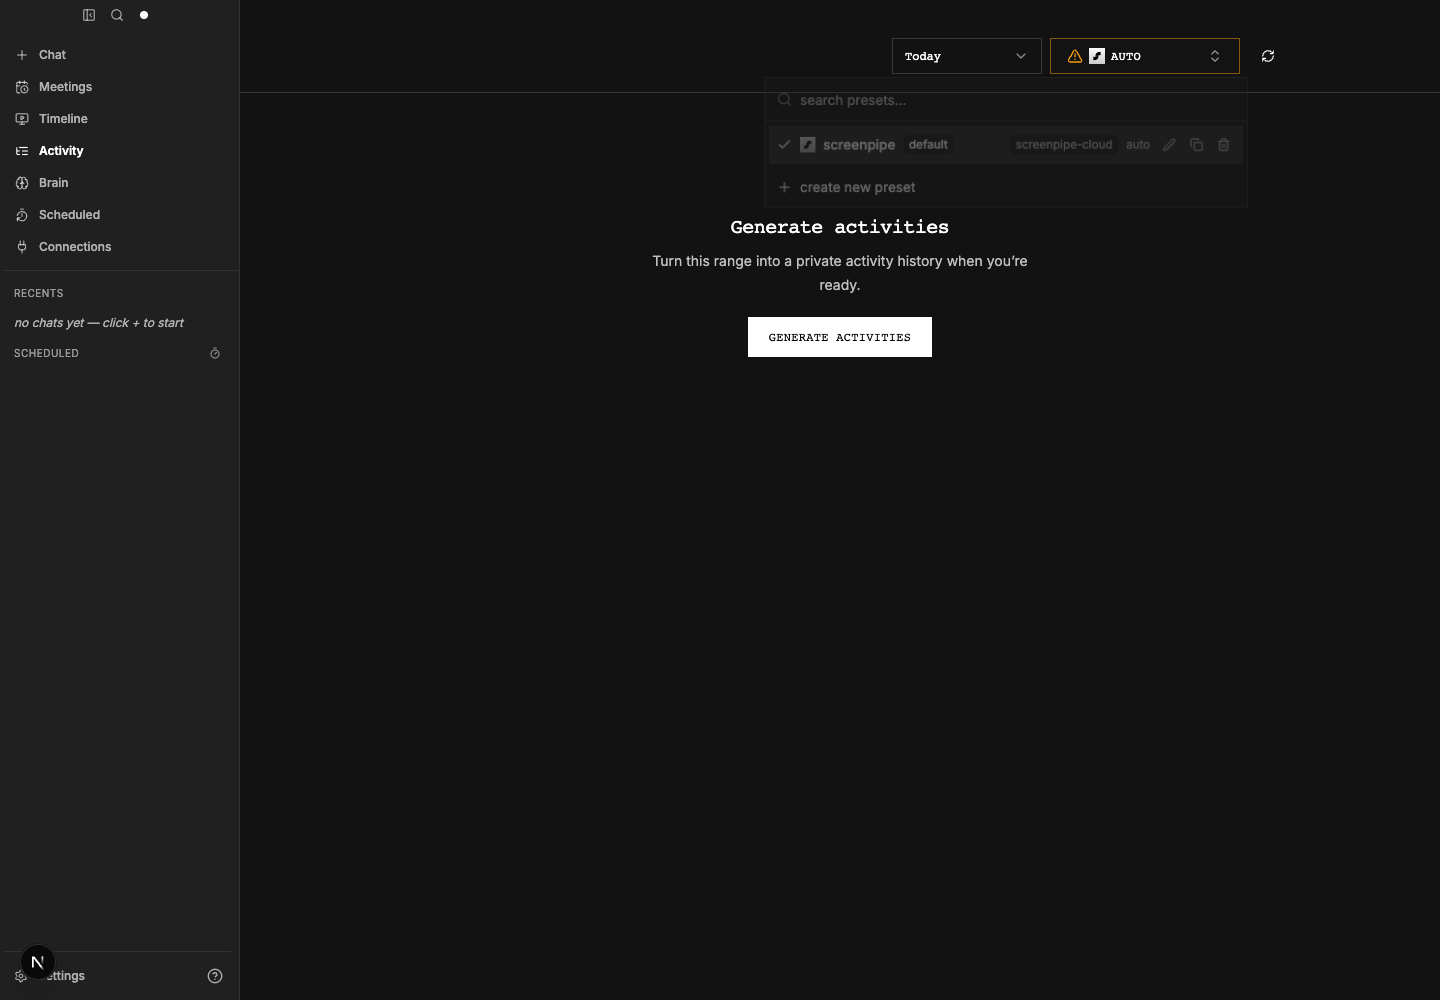
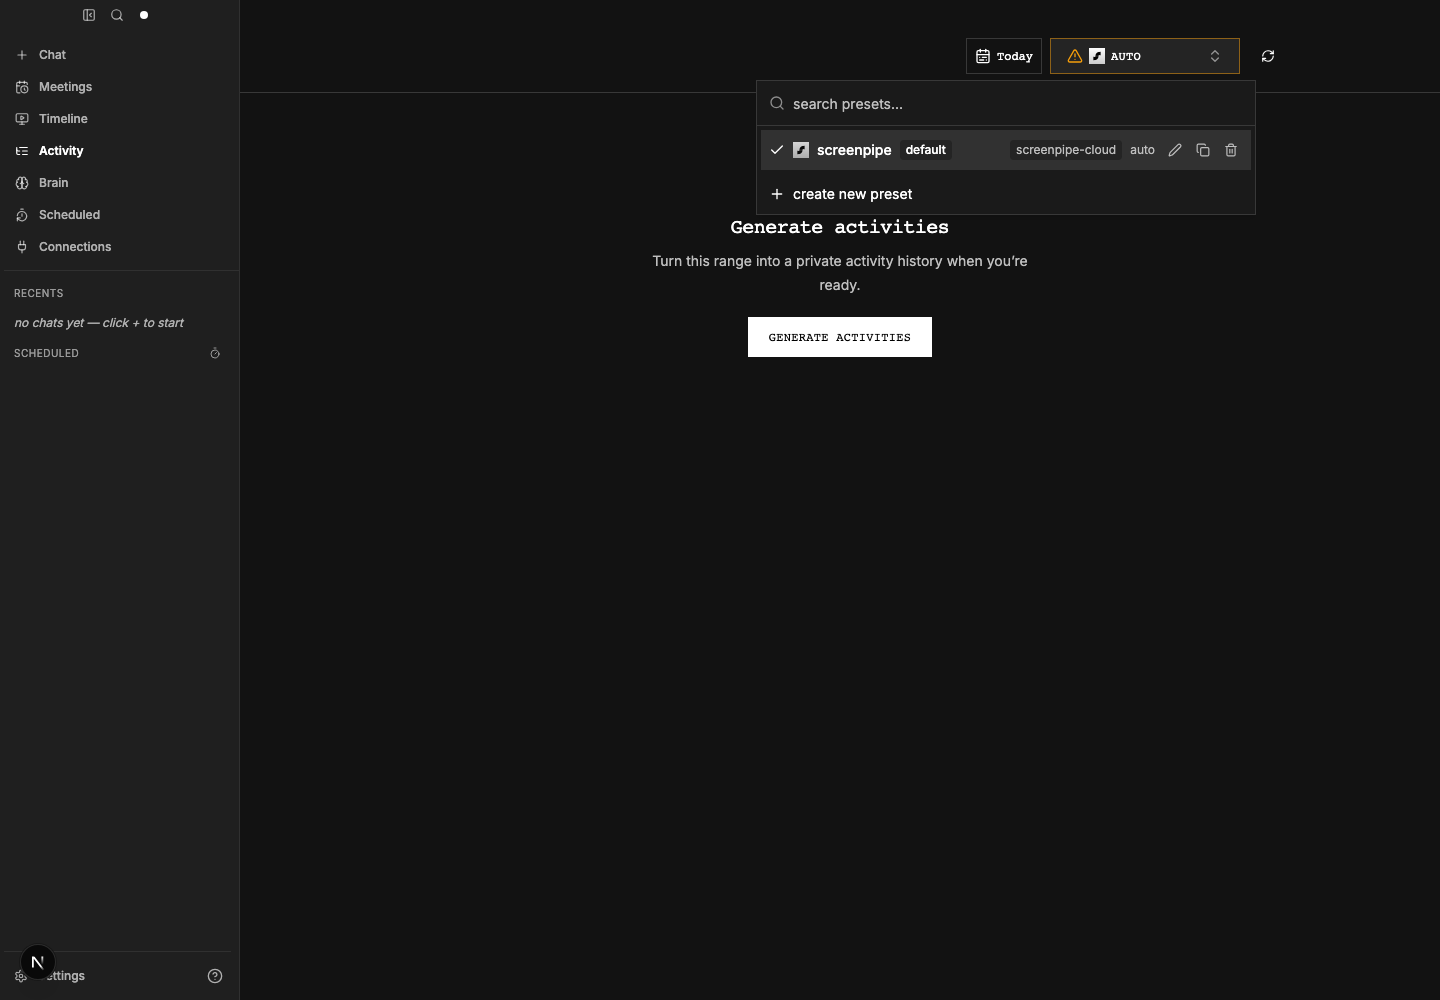
ui(activity): compact the time range control

Changed region(s): [[0.5312, 0.093, 0.875, 0.217], [0.625, 0.031, 0.7188, 0.062]]

diff --git a/apps/screenpipe-app-tauri/components/activity-ledger.test.tsx b/apps/screenpipe-app-tauri/components/activity-ledger.test.tsx
@@ -685,7 +685,11 @@ describe("ActivityLedger", () => {
 
     await screen.findByRole("button", { name: "Generate activities" });
     expect(screen.queryByRole("heading", { name: "Activity" })).toBeNull();
-    expect(screen.getByLabelText("Time range")).toBeVisible();
+    const timeRange = screen.getByRole("combobox", {
+      name: "Time range: Today",
+    });
+    expect(timeRange).toBeVisible();
+    expect(timeRange).toHaveTextContent("Today");
     expect(screen.getByLabelText("AI preset")).toBeVisible();
   });
 
@@ -693,7 +697,9 @@ describe("ActivityLedger", () => {
     render(<ActivityLedger />);
 
     await screen.findByRole("button", { name: "Generate activities" });
-    fireEvent.click(screen.getByLabelText("Time range"));
+    fireEvent.click(
+      screen.getByRole("combobox", { name: "Time range: Today" }),
+    );
     fireEvent.click(
       await screen.findByRole("option", { name: "Custom range" }),
     );
@@ -710,7 +716,9 @@ describe("ActivityLedger", () => {
     render(<ActivityLedger />);
 
     await screen.findByRole("button", { name: "Generate activities" });
-    fireEvent.click(screen.getByLabelText("Time range"));
+    fireEvent.click(
+      screen.getByRole("combobox", { name: "Time range: Today" }),
+    );
     fireEvent.click(
       await screen.findByRole("option", { name: "Custom range" }),
     );
@@ -730,10 +738,14 @@ describe("ActivityLedger", () => {
       ).toHaveAttribute("aria-expanded", "false"),
     );
 
-    fireEvent.click(screen.getByLabelText("Time range"));
+    fireEvent.click(
+      screen.getByRole("combobox", { name: "Time range: Custom range" }),
+    );
     fireEvent.click(await screen.findByRole("option", { name: "Today" }));
 
-    expect(screen.getByLabelText("Time range")).toHaveTextContent("Today");
+    expect(
+      screen.getByRole("combobox", { name: "Time range: Today" }),
+    ).toBeVisible();
     expect(
       screen.queryByRole("button", { name: "Choose custom date range" }),
     ).toBeNull();
@@ -1245,7 +1257,9 @@ describe("ActivityLedger", () => {
     expect(
       screen.getByRole("button", { name: "Refresh history" }),
     ).toBeVisible();
-    expect(screen.getByLabelText("Time range")).toBeVisible();
+    expect(
+      screen.getByRole("combobox", { name: "Time range: Today" }),
+    ).toBeVisible();
   });
 
   it("opens app and transcript artifacts at their exact timeline moments", async () => {

diff --git a/apps/screenpipe-app-tauri/components/activity-ledger.tsx b/apps/screenpipe-app-tauri/components/activity-ledger.tsx
@@ -17,6 +17,7 @@ import {
   AppWindow,
   AudioLines,
   CalendarDays,
+  CalendarRange,
   RefreshCw,
   Users,
 } from "lucide-react";
@@ -38,7 +39,6 @@ import {
   SelectContent,
   SelectItem,
   SelectTrigger,
-  SelectValue,
 } from "@/components/ui/select";
 import {
   ACTIVITY_REVIEW_AGENT_SYSTEM_PROMPT,
@@ -148,6 +148,13 @@ const RANGE_COPY: Record<RangePreset, string> = {
   "24h": "Last 24 hours",
   "7d": "Last 7 days",
   custom: "Custom range",
+};
+
+const RANGE_SHORT_COPY: Record<RangePreset, string> = {
+  today: "Today",
+  "24h": "24h",
+  "7d": "7d",
+  custom: "Custom",
 };
 
 function readStoredRangePreset(): RangePreset {
@@ -1311,11 +1318,13 @@ Re-query Screenpipe only inside the cited time range and use the cited frames an
                 }}
               >
                 <SelectTrigger
-                  className="h-9 w-[150px] rounded-none text-xs"
+                  className="h-9 w-auto min-w-0 shrink-0 justify-center gap-1.5 rounded-none px-2 text-xs [&>svg:last-child]:hidden"
                   data-testid="activity-range"
-                  aria-label="Time range"
+                  aria-label={`Time range: ${RANGE_COPY[preset]}`}
+                  title={`Time range: ${RANGE_COPY[preset]}`}
                 >
-                  <SelectValue />
+                  <CalendarRange className="h-4 w-4" aria-hidden="true" />
+                  <span aria-hidden="true">{RANGE_SHORT_COPY[preset]}</span>
                 </SelectTrigger>
                 <SelectContent>
                   {(
